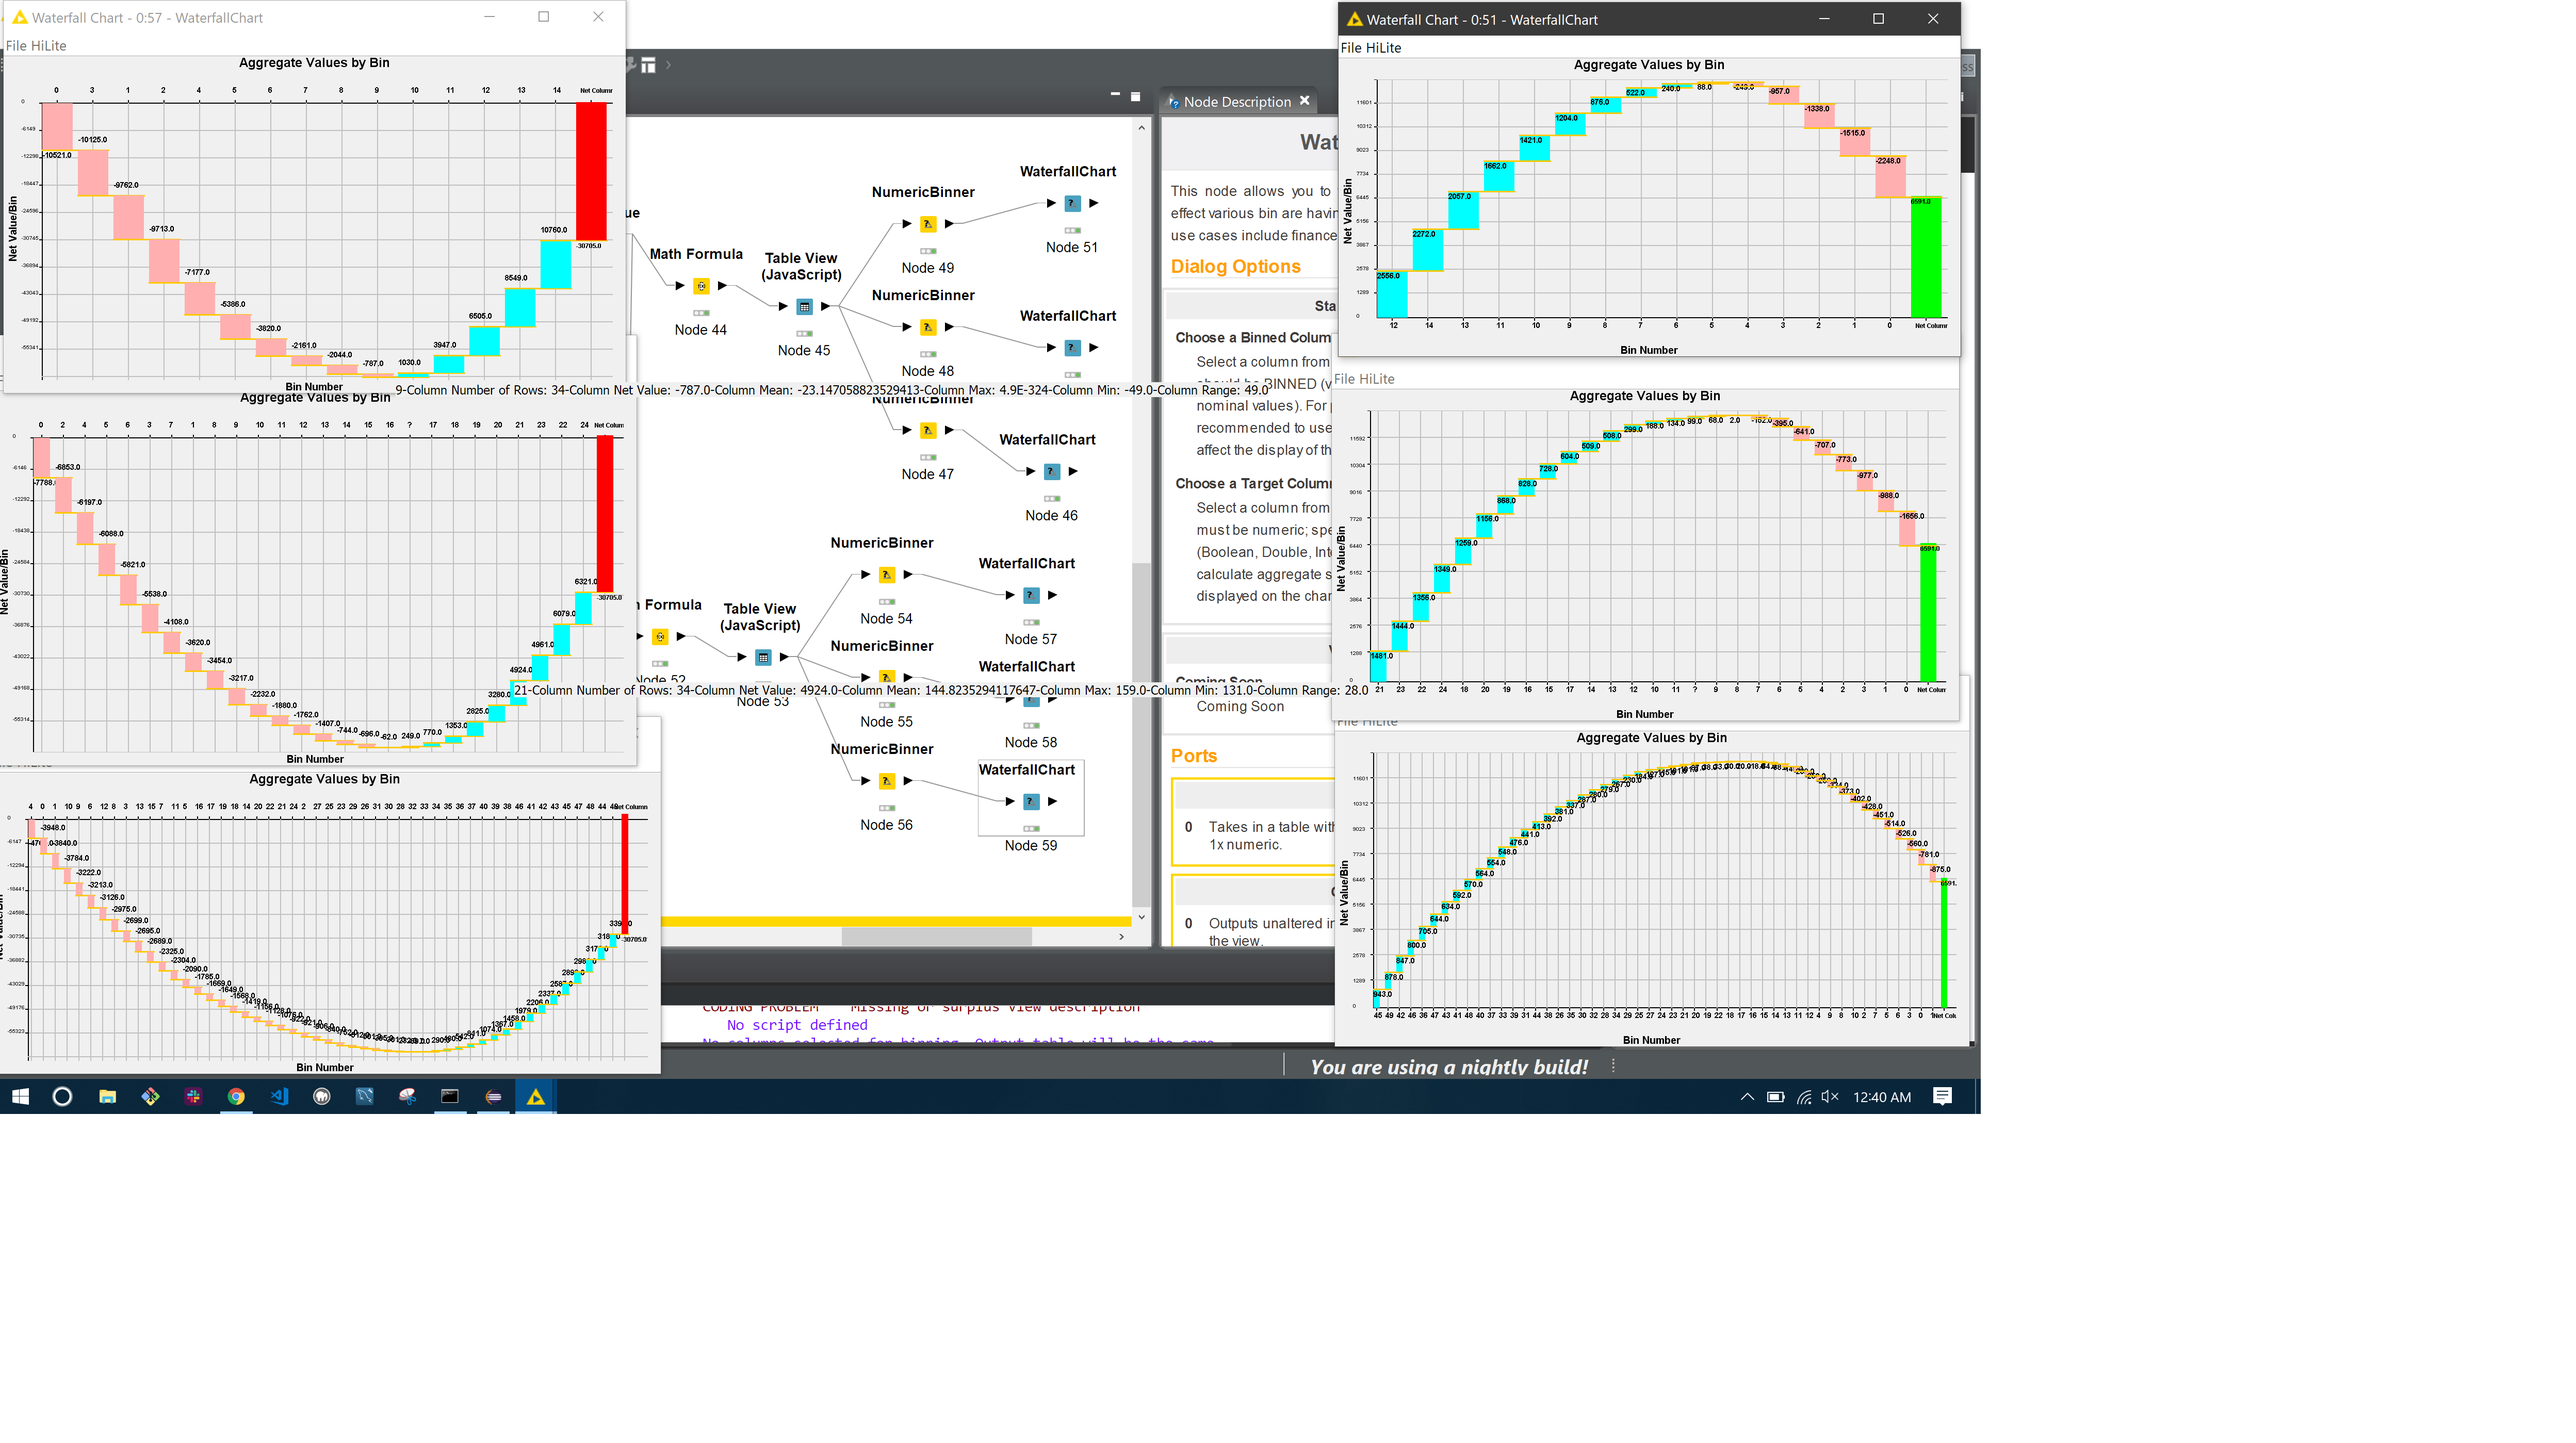
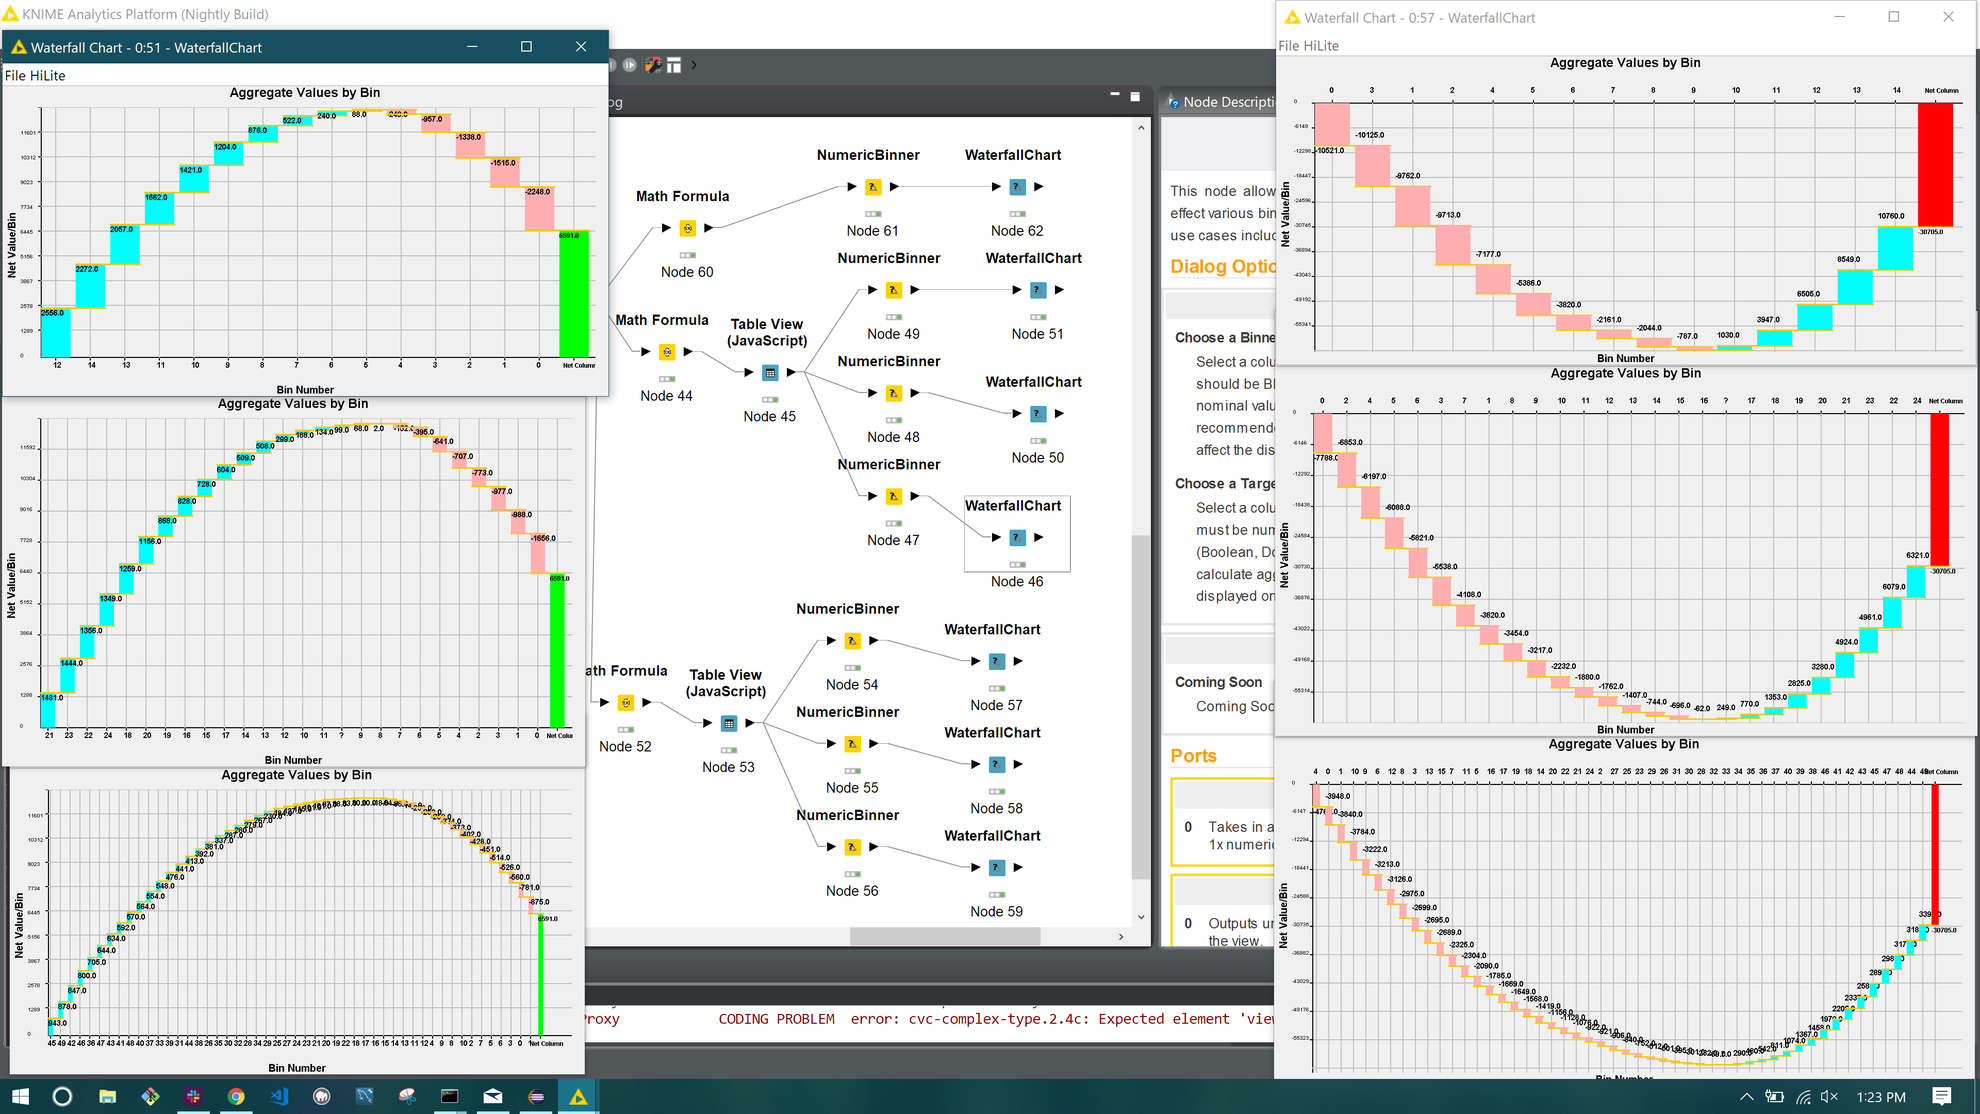
Enabled internal state loading and saving for views, made some tweaks to the net column height, tested with real world data set, and updated README.

diff --git a/src/io/github/blaney/waterfallchart/WaterfallChartNodeView.java b/src/io/github/blaney/waterfallchart/WaterfallChartNodeView.java
@@ -1,6 +1,7 @@
 package io.github.blaney.waterfallchart;
 
 import java.awt.event.ActionEvent;
+
 import java.awt.event.ActionListener;
 import java.awt.event.MouseAdapter;
 import java.awt.event.MouseEvent;
@@ -8,11 +9,11 @@ import java.util.LinkedHashSet;
 import java.util.List;
 import java.util.Set;
 
-import javax.swing.JLabel;
+//import javax.swing.JLabel;
 import javax.swing.JMenu;
 import javax.swing.JMenuItem;
-import javax.swing.Popup;
-import javax.swing.PopupFactory;
+//import javax.swing.Popup;
+//import javax.swing.PopupFactory;
 
 import org.knime.core.data.RowKey;
 import org.knime.core.node.NodeView;
@@ -30,7 +31,7 @@ public class WaterfallChartNodeView extends NodeView<WaterfallChartNodeModel> im
 
 	// Custom Components
 	private WaterfallChartViewBorderPanel v_panel;
-	private Popup popup;
+//	private Popup popup;
 
 	// JMenu items
 	private final JMenuItem v_hilite;
@@ -50,27 +51,27 @@ public class WaterfallChartNodeView extends NodeView<WaterfallChartNodeModel> im
 		v_selected = new LinkedHashSet<ChartColumn>();
 		v_panel.getChartPanel().addMouseListener(new MouseAdapter() {
 			// mouse hover for column
-			@Override
-			public void mouseEntered(MouseEvent e) {
-				for (ChartColumn chartCol : v_panel.getColumns()) {
-					if (chartCol.getViewRepresentation() != null
-							&& chartCol.getViewRepresentation().contains(e.getX(), e.getY())) {
-						// add fail safe ternary null checks for sb methods
-						StringBuilder sBuilder = new StringBuilder(chartCol.getColumnName());
-						sBuilder.append("-\nColumn Number of Rows: " + chartCol.getNumberOfEntries());
-						sBuilder.append("-\nColumn Net Value: " + chartCol.getColumnTotal());
-						sBuilder.append("-\nColumn Mean: " + chartCol.getColumnMean());
-						sBuilder.append("-\nColumn Max: " + chartCol.getColumnMax());
-						sBuilder.append("-\nColumn Min: " + chartCol.getColumnMin());
-						sBuilder.append("-\nColumn Range: " + chartCol.getColumnRange());
-						JLabel text = new JLabel(sBuilder.toString());
-						popup = PopupFactory.getSharedInstance().getPopup(e.getComponent(), text, e.getXOnScreen(),
-								e.getYOnScreen());
-						popup.show();
-						break;
-					}
-				}
-			}
+//			@Override
+//			public void mouseEntered(MouseEvent e) {
+//				for (ChartColumn chartCol : v_panel.getColumns()) {
+//					if (chartCol.getViewRepresentation() != null
+//							&& chartCol.getViewRepresentation().contains(e.getX(), e.getY())) {
+//						// add fail safe ternary null checks for sb methods
+//						StringBuilder sBuilder = new StringBuilder(chartCol.getColumnName());
+//						sBuilder.append("-\nColumn Number of Rows: " + chartCol.getNumberOfEntries());
+//						sBuilder.append("-\nColumn Net Value: " + chartCol.getColumnTotal());
+//						sBuilder.append("-\nColumn Mean: " + chartCol.getColumnMean());
+//						sBuilder.append("-\nColumn Max: " + chartCol.getColumnMax());
+//						sBuilder.append("-\nColumn Min: " + chartCol.getColumnMin());
+//						sBuilder.append("-\nColumn Range: " + chartCol.getColumnRange());
+//						JLabel text = new JLabel(sBuilder.toString());
+//						popup = PopupFactory.getSharedInstance().getPopup(e.getComponent(), text, e.getXOnScreen(),
+//								e.getYOnScreen());
+//						popup.show();
+//						break;
+//					}
+//				}
+//			}
 
 			// column selection method
 			@Override

diff --git a/src/io/github/blaney/waterfallchart/WaterfallChartNodeModel.java b/src/io/github/blaney/waterfallchart/WaterfallChartNodeModel.java
@@ -1,6 +1,7 @@
 package io.github.blaney.waterfallchart;
 
 import java.io.File;
+
 import java.io.FileOutputStream;
 import java.io.FileInputStream;
 import java.io.IOException;
@@ -23,7 +24,7 @@ import org.knime.core.node.InvalidSettingsException;
 import org.knime.core.node.ModelContent;
 import org.knime.core.node.ModelContentRO;
 import org.knime.core.node.ModelContentWO;
-import org.knime.core.node.NodeLogger;
+//import org.knime.core.node.NodeLogger;
 import org.knime.core.node.NodeModel;
 import org.knime.core.node.NodeSettingsRO;
 import org.knime.core.node.NodeSettingsWO;
@@ -39,7 +40,7 @@ public class WaterfallChartNodeModel extends NodeModel {
 	public static final int IN_PORT = 0;
 
 //     the logger instance
-	private static final NodeLogger logger = NodeLogger.getLogger(WaterfallChartNodeModel.class);
+//	private static final NodeLogger logger = NodeLogger.getLogger(WaterfallChartNodeModel.class);
 
 	// internally saved setting keys
 	static final String CFGKEY_BINNED_COLUMN_NAME = "binnedColumnName";
@@ -79,6 +80,7 @@ public class WaterfallChartNodeModel extends NodeModel {
 		int tarColIndex = inData[IN_PORT].getDataTableSpec().findColumnIndex(m_targetColumn.getStringValue());
 		m_columnNames = retrieveBins(inData[IN_PORT], binColIndex);
 		m_numColumns.setIntValue(m_columnNames.size());
+		System.out.println(m_numColumns.getIntValue());
 		if (m_numColumns.getIntValue() > 20) {
 			// send warning: bad visibility likely
 		}
@@ -179,9 +181,11 @@ public class WaterfallChartNodeModel extends NodeModel {
 		ModelContentRO modelContent = ModelContent.loadFromXML(fis);
 
 		try {
+			m_numColumns.setIntValue(modelContent.getInt(CFGKEY_NUM_COLUMNS));
 			// should modify save to use numeric iterable for loop for consistency
 			// should also switch m_chartColumns from ArrayList to ChartColumn[]
 			for (int i = 0; i < m_numColumns.getIntValue(); i++) {
+				System.out.println("Loading columns");
 				ChartColumn chartCol = new ChartColumn();
 				ModelContentRO subContent = modelContent.getModelContent(CHART_COLUMN + i);
 				chartCol.loadFrom(subContent);
@@ -198,8 +202,10 @@ public class WaterfallChartNodeModel extends NodeModel {
 			throws IOException, CanceledExecutionException {
 		if (m_chartColumns != null) {
 			ModelContent modelContent = new ModelContent(INTERNAL_MODEL);
+			modelContent.addInt(CFGKEY_NUM_COLUMNS, m_chartColumns.size());
 			int count = 0;
 			for (ChartColumn chartCol : m_chartColumns) {
+				System.out.println("saving col");
 				ModelContentWO subContent = modelContent.addModelContent(CHART_COLUMN + count);
 				chartCol.saveTo(subContent);
 				count++;

diff --git a/src/io/github/blaney/waterfallchart/WaterfallChartViewPanel.java b/src/io/github/blaney/waterfallchart/WaterfallChartViewPanel.java
@@ -1,16 +1,13 @@
 package io.github.blaney.waterfallchart;
 
 import java.awt.BasicStroke;
-import java.awt.BorderLayout;
+
 import java.awt.Color;
 import java.awt.Dimension;
 import java.awt.Font;
-import java.awt.FontMetrics;
 import java.awt.Graphics;
 import java.awt.Graphics2D;
 import java.awt.Rectangle;
-import java.awt.RenderingHints;
-import java.awt.Stroke;
 import java.awt.geom.Line2D;
 import java.util.ArrayList;
 import java.util.Arrays;
@@ -18,7 +15,6 @@ import java.util.Collections;
 import java.util.LinkedHashSet;
 import java.util.Set;
 
-import javax.swing.JLabel;
 import javax.swing.JPanel;
 
 import org.knime.core.data.RowKey;
@@ -202,6 +198,7 @@ public class WaterfallChartViewPanel extends JPanel {
 
 					if (hasNetColumn && chartCol.getColumnName().equals("Net Column")) {
 						x = (count * offset) + (colWidth * count) + rightPadding;
+						colHeight =  height -previousHeight;
 						startHeight = height - colHeight;
 						color = netColumnColor;
 					}
@@ -271,6 +268,7 @@ public class WaterfallChartViewPanel extends JPanel {
 					// create net column
 					int x = (count * offset) + (colWidth * count) + rightPadding;
 					int colHeight = (int) ((netColumnValue / aggregateColumnHeight) * height);
+					colHeight = height - previousHeight;
 					int startHeight = height - colHeight;
 					System.out.println("x " + x + " sh " + startHeight + " cw " + colWidth + " ch " + colHeight
 							+ " ncv " + netColumnValue + " ach " + aggregateColumnHeight + " h " + height);
@@ -402,7 +400,8 @@ public class WaterfallChartViewPanel extends JPanel {
 
 					if (hasNetColumn && chartCol.getColumnName().equals("Net Column")) {
 						x = (count * offset) + (colWidth * count) + rightPadding;
-						startHeight = previousHeight - colHeight;
+						startHeight = bottomPadding;
+						colHeight = previousHeight-bottomPadding;
 						color = netNegativeColumnColor;
 					}
 					rect = new Rectangle(x, startHeight, colWidth, colHeight);
@@ -479,7 +478,7 @@ public class WaterfallChartViewPanel extends JPanel {
 				if (!hasNetColumn) {
 					// create net column
 					int x = (count * offset) + (colWidth * count) + rightPadding;
-					int colHeight = (int) ((netColumnValue / negativeAggValue) * height);
+					int colHeight = previousHeight-bottomPadding;
 					int startHeight = bottomPadding;
 					System.out.println("x " + x + " sh " + startHeight + " cw " + colWidth + " ch " + colHeight
 							+ " ncv " + netColumnValue + " ach " + aggregateColumnHeight + " h " + height);

diff --git a/src/io/github/blaney/waterfallchart/WaterfallChartViewBorderPanel.java b/src/io/github/blaney/waterfallchart/WaterfallChartViewBorderPanel.java
@@ -1,6 +1,7 @@
 package io.github.blaney.waterfallchart;
 
 import java.awt.BorderLayout;
+
 import java.awt.Dimension;
 import java.awt.Font;
 import java.awt.FontMetrics;
@@ -8,11 +9,11 @@ import java.awt.Graphics;
 import java.awt.Graphics2D;
 import java.awt.RenderingHints;
 
-import javax.swing.JLabel;
 import javax.swing.JPanel;
 
 public class WaterfallChartViewBorderPanel extends JPanel {
-	
+	private static final long serialVersionUID = 1L;
+
 	private WaterfallChartViewPanel graphPanel;
 	
 	private static final String CFG_KEY_X_AXIS_LABEL = "Bin Number";
@@ -40,6 +41,7 @@ public class WaterfallChartViewBorderPanel extends JPanel {
 	}
 
 	class VerticalPanel extends JPanel {
+		private static final long serialVersionUID = 1L;
 		private String yAxisLabel;
 
 		public VerticalPanel(final String yAxisLabel) {
@@ -59,7 +61,6 @@ public class WaterfallChartViewBorderPanel extends JPanel {
 
 			FontMetrics metrics = g.getFontMetrics(font);
 			int width = metrics.stringWidth(yAxisLabel);
-			int height = metrics.getHeight();
 
 			gg.setFont(font);
 
@@ -77,6 +78,8 @@ public class WaterfallChartViewBorderPanel extends JPanel {
 	}
 
 	class HorizontalPanel extends JPanel {
+		private static final long serialVersionUID = 1L;
+		
 		private String panelLabel;
 		private Font font = new Font("Arial", Font.BOLD, 20);
 		
@@ -101,7 +104,6 @@ public class WaterfallChartViewBorderPanel extends JPanel {
 			gg.setRenderingHint(RenderingHints.KEY_ANTIALIASING, RenderingHints.VALUE_ANTIALIAS_ON);
 			FontMetrics metrics = g.getFontMetrics(font);
 			int width = metrics.stringWidth(panelLabel);
-			int height = metrics.getHeight();
 
 			gg.setFont(font);
 

diff --git a/src/io/github/blaney/waterfallchart/ChartColumn.java b/src/io/github/blaney/waterfallchart/ChartColumn.java
@@ -2,6 +2,7 @@ package io.github.blaney.waterfallchart;
 
 import java.awt.Rectangle;
 
+
 import java.awt.geom.Line2D;
 import java.util.Arrays;
 import java.util.LinkedHashSet;
@@ -13,9 +14,6 @@ import org.knime.core.node.BufferedDataTable;
 import org.knime.core.node.InvalidSettingsException;
 import org.knime.core.node.ModelContentRO;
 import org.knime.core.node.ModelContentWO;
-
-import org.apache.commons.lang3.builder.EqualsBuilder;
-import org.apache.commons.lang3.builder.HashCodeBuilder;
 
 public class ChartColumn implements Comparable<ChartColumn> {
 	// internal keys
@@ -205,6 +203,7 @@ public class ChartColumn implements Comparable<ChartColumn> {
 		// loading internals
 		RowKey[] keysArr = modelContent.getRowKeyArray(COL_KEY_SET);
 		m_columnRowKeys.addAll(Arrays.asList(keysArr));
+		System.out.println(m_columnRowKeys.size());
 		setColumnName(modelContent.getString(COL_NAME));
 		setColumnTotal(modelContent.getDouble(COL_TOTAL));
 		setColumnMin(modelContent.getDouble(COL_MIN));

diff --git a/README.md b/README.md
@@ -3,7 +3,7 @@
 
 This node allows you to visualize the bifurcated cummulative effect various bin are having on an net column output. Common applications include finances and modeling change over time.
 
-![Chart View] (/charts.png)
+![Chart View](charts.png)
 
 ## Options
 ### Choose a Binned Column
@@ -24,3 +24,5 @@ Outputs unaltered input table following the creation of the view.
 
 ## Notes
 Currently this node supports both net positive and negative net columns. Feel free to open an issue for any bugs that arise.
+
+![Financials](finaNcials.PNG)
